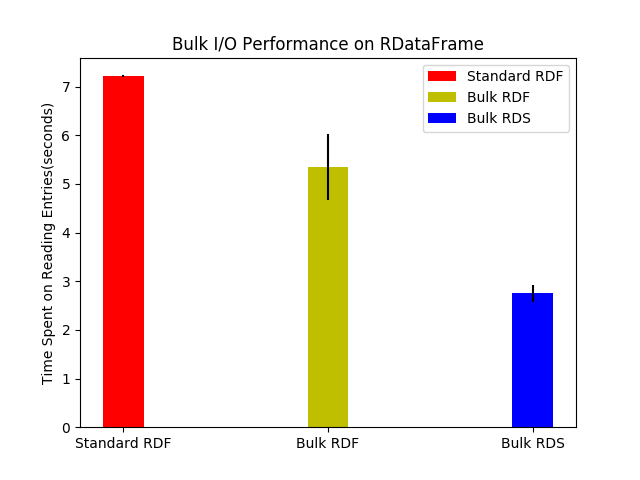
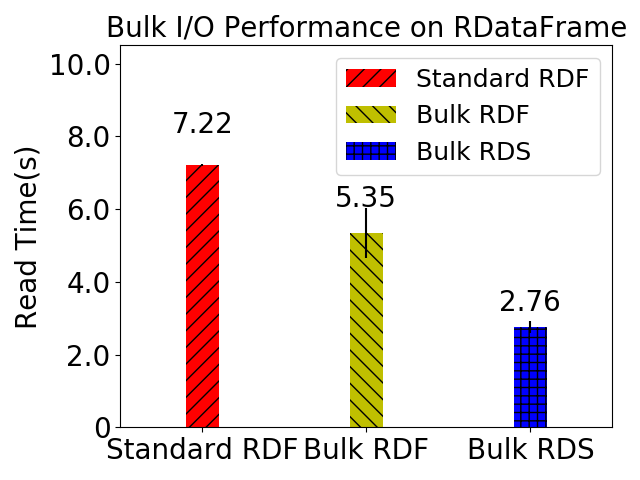
Final version submitted to IOP

diff --git a/latex/interface.tex b/latex/interface.tex
@@ -1,43 +1,48 @@
 \section{Implementation}
 \label{sec:implementation}
 
-We implement an Bulk IO API in three common use cases: \textit{TBranch}, \textit{TTreeReader} and \textit{RDataFrame}. We discuss about our interface design and integration in this section.
+Bulk IO interface is a set of APIs that are built in the existing ROOT IO framework. The user can choose between regular APIs and Bulk IO APIs. We implement Bulk IO in three common use cases: \textit{TBranch}, \textit{TTreeReader} and \textit{RDataFrame}. We discuss about our interface design and integration in this section.
 
 \subsection{Bulk IO in TBranch}
 
-Listing \ref{bulkapi} shows Bulk IO API in TBranch in which two input arguments need to parse into the function: \textit{entry} and \textit{user\_buf}. the entry defines an event index number indicating which event the function is going to read. The \textit{user\_buf} parses an user-space TBuffer structure as a reference into the function. In the end of the function call, the \textit{user\_buf} should contain the whole basket of data that contains the inquiry event.
+Listing \ref{bulkapi} shows Bulk IO API in TBranch in which two input arguments need to be parsed into the function: \textit{entry} and \textit{user\_buf}. the entry defines an event index number indicating which event the function is going to read. The \textit{user\_buf} parses an user-space TBuffer structure as a reference into the function. In the end of the function call, the \textit{user\_buf} should contain the whole basket of data that contains the inquiry event.
 
-\lstset{language=C++,
-                %basicstyle=\ttfamily,
-                keywordstyle=\color{blue}\ttfamily,
-                stringstyle=\color{red}\ttfamily,
-                commentstyle=\color{green}\ttfamily,
-                morecomment=[l][\color{magenta}]{\#},
-                xleftmargin=0.05\textwidth,
-                xrightmargin=0.05\textwidth,
-                basicstyle=\footnotesize\ttfamily,
-                frame=single
+\lstset{
+  basicstyle=\footnotesize\ttfamily, frame=single,
+  xleftmargin=.05\textwidth, xrightmargin=.05\textwidth
 }
-
-\vspace{5pt}
-\begin{lstlisting}[caption={Bulk API in TBranch},captionpos=b,label={bulkapi}]
+\begin{lstlisting}[label={bulkapi}]
 Int_t TBranch::GetBulkEntries(Long64_t entry, TBuffer &user_buf)
 \end{lstlisting}
+\vspace{-10pt}
+\captionof{lstlisting}{Bulk API in TBranch}
+
+%\vspace{5pt}
 
 It is worthwhile to mention that \textit{GetBulkEntries} deserializes events on-the-fly when the data read into the \textit{user\_buf}. Thus no further manipulation is required for user applications. An user can later on access an event in the basket using the code snippet shown in Listing \ref{loop} where \textit{T} is the object type and \textit{idx} is the event index in the \textit{user\_buf}.
-\vspace{5pt}
-\lstset{basicstyle=\ttfamily,xleftmargin=0.1\textwidth,xrightmargin=0.05\textwidth}
-\begin{lstlisting}[caption={Loop over user\_buf.},captionpos=b,label={loop}]
-*reinterpret_cast<T*>(user_buf.GetCurrent())[idx]
+
+\lstset{
+  basicstyle=\ttfamily, frame=single,
+  xleftmargin=.08\textwidth, xrightmargin=.08\textwidth
+}
+\begin{lstlisting}[label={loop}]
+ *reinterpret_cast<T*>(user_buf.GetCurrent())[idx]
 \end{lstlisting}
+\vspace{-10pt}
+\captionof{lstlisting}{Loop over user\_buf}
 
 \subsection{Bulk IO in TTreeReader}
 
-\textit{TTreeReader} is an interface for an user to access simple object (primitives, arrays, etc.) in a ROOT file. \textit{TTreeReaderValue} is the interface to access primitives and \textit{TTreeReaderArray} is the interface to access arrays (each event is either an fixed-size or varialbe-size array). Listing \ref{ttreereader} shows a code sample that uses \textit{TTreeReaderValue} to read events (floats) from a file. \textit{TTreeReader} internally relies on \textit{GetEntry} to access events.
-\vspace{5pt}
-\lstset{xleftmargin=0.15\textwidth,xrightmargin=0.04\textwidth
+\lstset{
+  language=C++,
+  keywordstyle=\color{blue},
+  stringstyle=\color{red},
+  commentstyle=\color{green},
+%  caption=Access to Events using TTreeReader, 
+  basicstyle=\ttfamily, frame=single,
+  xleftmargin=.09\textwidth, xrightmargin=.09\textwidth
 }
-\begin{lstlisting}[caption={Access to Events using TTreeReader.},captionpos=b,label={ttreereader}]
+\begin{lstlisting}[label={ttreereader}]
 TTreeReader myReader("T", hfile);
 TTreeReaderValue<float> myF(myReader, "myFloat");
 Long64_t idx = 0; 
@@ -46,24 +51,46 @@ while (myReader.Next()) {
    sum += *myF;
 }
 \end{lstlisting}
+\vspace{-10pt}
+\captionof{lstlisting}{Access to Events using TTreeReader}
 
-\vspace{5pt}
+%\vspace{5pt}
 
-\lstset{xleftmargin=0\textwidth,xrightmargin=0\textwidth,basicstyle=\footnotesize\ttfamily,breaklines=true}
-\begin{lstlisting}[caption={Bulk API in TTreeReaderFast.},captionpos=b,label={serialized}]
+\textit{TTreeReader} is an interface for an user to access simple object (primitives, arrays, etc.) in a ROOT file. \textit{TTreeReaderValue} is the interface to access primitives and \textit{TTreeReaderArray} is the interface to access arrays (each event is either an fixed-size or varialbe-size array). Listing \ref{ttreereader} shows a code sample that uses \textit{TTreeReaderValue} to read events (floats) from a file. \textit{TTreeReader} internally relies on \textit{GetEntry} to access events.
+
+\lstset{
+%  caption=Bulk API in TTreeReaderFast, 
+  basicstyle=\footnotesize\ttfamily, frame=single,
+  xleftmargin=0\textwidth,
+  xrightmargin=0\textwidth
+}
+\begin{lstlisting}[label={serialized}]
 Int_t TBranch::GetEntriesSerialized(Long64_t entry, TBuffer &user_buf)
 \end{lstlisting}
+\vspace{-10pt}
+\captionof{lstlisting}{Bulk API in TTreeReaderFast}
 
-We design a Bulk API - \textit{GetEntriesSerialized} in TBranch shown in Listing \ref{serialized}. We introduce a new interface - TTreeReaderFast that uses \textit{GetEntriesSerialized} to function as TTreeReader. Unlike \textit{GetBulkEntries}, GetEntriesSerialized does not deserialize events while reading basket into \textit{user\_buf}. Instead, it wait until the user calls \textit{*myF}. Dereference operator invokes the appropriate deserialization code. 
+%\vspace{5pt}
+
+We design a Bulk API - \textit{GetEntriesSerialized} in TBranch shown in Listing \ref{serialized}. We introduce a new interface - TTreeReaderFast that uses \textit{GetEntriesSerialized} to function as TTreeReader. Unlike \textit{GetBulkEntries}, GetEntriesSerialized does not deserialize events while reading basket into \textit{user\_buf}. Instead, it waits until the user calls \textit{*myF}. Dereference operator invokes the appropriate deserialization code. 
 
 \subsection{Bulk IO in RDataFrame}
 
-During  the work, Bulk IO was integrated into RDataFrame \cite{rdataframe} through RDataSource (RDS) which defines an API for RDF to read arbitrary data formats.
-\vspace{5pt}
-\lstset{basicstyle=\ttfamily,xleftmargin=0.1\textwidth,xrightmargin=0.1\textwidth,breaklines=true}
-\begin{lstlisting}[caption={Bulk API in RDataFrame.},captionpos=b,
-label={serializedcount}]
+During our work, Bulk IO is also integrated into RDataFrame \cite{rdataframe} which is a python Pandas \cite{pandas} like data analysis framework for ROOT users. RDataFrame provides a proxy interface - RDataSource (RDS). It allows RDF to read arbitrary data formats such as TTree, CSV, etc..
+
+\lstset{
+%  caption=Bulk API in RDataFrame, 
+  basicstyle=\ttfamily,
+  breaklines=true,
+  xleftmargin=0.1\textwidth,
+  xrightmargin=0.1\textwidth
+}
+\begin{lstlisting}[label={serializedcount}]
 Int_t TBranch::GetEntriesSerialized(Long64_t entry, TBuffer &user_buf, TBuffer *count_buf)
 \end{lstlisting}
+\vspace{-10pt}
+\captionof{lstlisting}{Bulk API in RDataFrame}
 
-We define a new Bulk API \textit{GetEntriesSerialized} shown in Listing \ref{serializedcount}. The only difference from Listing \ref{serialized} is that there is one more argument \textit{count\_buf}. Listing \ref{serialized} actually calls Listing \ref{serializedcount} and set the \textit{count\_buf} as nullptr. \textit{count\_buf} is used to store array length information when events in RDataFrame are arrays.
+%\vspace{5pt}
+
+We define a new Bulk API \textit{GetEntriesSerialized} shown in Listing \ref{serializedcount}. The only difference from Listing \ref{serialized} is that there is one more argument \textit{count\_buf}. Listing \ref{serialized} actually calls Listing \ref{serializedcount} and set the \textit{count\_buf} as nullptr. \textit{count\_buf} is used to store array length information when events in RDataFrame are arrays. Variable-size arrays need such information to deserialize the butter into multiple individual arrays.

diff --git a/latex/motivation.tex b/latex/motivation.tex
@@ -4,21 +4,18 @@
 
 The typical mechanism for iterating through data in a \texttt{TTree} is a handwritten for-loop. ROOT uses a API shown in Listing \ref{getentry} to read objects from a branch (TTree is a structure that contains one or multiple TBranches). This function runs in two steps. First, it searches the underlying storage medium for the basket where the event is located and then read the basket into a memory buffer. The TBasket is the data structure that represents the in-memory buffer. ROOT decompresses the buffer and put the uncompressed buffer in so-called ``kernel" space. In the second step, once the basket appears in memory,  GetEntry deserializes the requested event from the kernel-space buffer and copy it to user-space buffer.
 
-\vspace{5pt}
-\lstset{language=C++,
-                basicstyle=\ttfamily,
-                keywordstyle=\color{blue}\ttfamily,
-                stringstyle=\color{red}\ttfamily,
-                commentstyle=\color{green}\ttfamily,
-                morecomment=[l][\color{magenta}]{\#},
-                xleftmargin=.2\textwidth, xrightmargin=.2\textwidth,
-                frame=single
+\lstset{
+  basicstyle=\ttfamily,
+  frame=single,
+  xleftmargin=.15\textwidth, xrightmargin=.15\textwidth
 }
-\begin{lstlisting}[caption={GetEntry in TBranch.},captionpos=b, label={getentry}]
-TBranch::GetEntry(Long64_t entry)
+\begin{lstlisting}[label={getentry}]
+  Int_t TBranch::GetEntry(Long64_t entry)
 \end{lstlisting}
+\vspace{-10pt}
+\captionof{lstlisting}{GetEntry in TBranch}
 
-When user application is computationally expensive, the cost of library calls, frequently deserializing objects and copying data between memory buffers are amortized to effectively noting. Accordingly, we introduce a new interface for ROOT to copy all events in an on-disk \texttt{TBasket} directly to a user-provided memory buffer. For the simplest of cases - primitives and C-style arrays of primitives - where the serialization can be done without a separate buffer or ``fixing up" pointer contents, the user can request the serialized data be delivered to the buffer or deserialized data.  By requesting the serialized data directly and deserializing directly in the event loop, the user can avoid an expensive scan from main memory.
+When user application is computationally expensive, the cost of library calls, frequently deserializing objects and copying data between memory buffers are amortized to effectively nothing. To overcome such overheads, we introduce a new interface for ROOT to copy all events in an on-disk \texttt{TBasket} directly to a user-provided memory buffer. For the simplest cases - primitives and C-style arrays of primitives, the serialization can be done without a separate buffer or ``fixing up" pointer contents. The user can request the serialized data or deserialized data to be delivered to the user buffer. By requesting the serialized data directly and deserializing directly in the event loop, the user can avoid an expensive scan from main memory.
 
 Pragmatically, the user will not implement code for deserializing data themselves: rather, we have provided a header-only C++ facade around the data, allowing the user to work with a proxy object.  This allows the compiler to inline the deserialization code in the correct place.
 

diff --git a/latex/evaluation.tex b/latex/evaluation.tex
@@ -3,7 +3,7 @@
 
 \subsection{Experiments}
 
-For tests was used a desktop Intel i5 4-Core @ 3.2GHz, while reading from a TTree with 100 million float values. We test three different use cases: GetBulkEntries, TTreeReaderFast and RDataSource.
+All tests are conducted on a desktop Intel i5 4-Core @ 3.2GHz. A TTree with 100 million float values is read with different APIs. We tested three different use cases: GetBulkEntries, TTreeReaderFast and RDataSource.
 
 \subsection{Results}
 
@@ -11,7 +11,7 @@ Figure \ref{fig:tbranch} shows the time spent on iterating all events in the \te
 
 \begin{figure}[!ht]
 \centering
-\includegraphics[height=4in, width=5in]{getbulkentries.png}
+\includegraphics[height=2.5in, width=3.5in]{getbulkentries.png}
 \vspace*{-2mm}
 \caption{Performance between \textit{GetEntry} and \textit{GetBulkEntries}.}
 \label{fig:tbranch}
@@ -19,18 +19,18 @@ Figure \ref{fig:tbranch} shows the time spent on iterating all events in the \te
 
 \begin{figure}[!ht]
 \centering
-\includegraphics[height=4in, width=5in]{ttreereader.png}
+\includegraphics[height=2.5in, width=3.5in]{ttreereader.png}
 \vspace*{-2mm}
-\caption{Performance comparison between \textit{TTreeReader} and \textit{TTreeReaderFast}.}
+\caption{Performance between \textit{TTreeReader} and \textit{TTreeReaderFast}.}
 \label{fig:ttreereader}
 \end{figure}
 
 \begin{figure}[!ht]
 \centering
-\includegraphics[height=4in, width=5in]{dataframe.png}
+\includegraphics[height=2.5in, width=3.5in]{dataframe.png}
 \vspace*{-2mm}
 \caption{Performance improvements on RDataFrame with Bulk IO.}
 \label{fig:rdataframe}
 \end{figure}
 
-Figure \ref{fig:rdataframe} shows the results of Bulk IO in RDataFrame. In this Figure \ref{fig:rdataframe}, standard RDF is the RDataFrame with normal ROOT IO library functions, while Bulk RDF is the results of reading events by RDataFrame and Bulk IO and Bulk RDS is the results that directly use RDataSource and Bulk IO. Bulk RDS outperforms standard RDF by more than 2 times. Since RDataFrame has extra overheads comparing to RDataSource (RDataFrame internally relies RDataSource), Bulk RDF runs slower than Bulk RDS, but still outperforms standard RDF.
+Figure \ref{fig:rdataframe} shows the results of Bulk IO in RDataFrame. In the figure, the standard RDF shows the performance by using regular RDataFrame function calls. Bulk RDF and Bulk RDS show the result of Bulk APIs. The difference is that, Bulk RDS test detaches RDataSource from RDataFrame stack and run the test directly through RDS function calls. As shown in Figure \ref{fig:rdataframe}, Bulk RDS outperforms standard RDF by more than 2 times. In addition, RDataFrame has extra overheads compared to RDataSource (RDataFrame internally relies RDataSource), therefore Bulk RDF runs slower than Bulk RDS, but still outperforms standard RDF.

diff --git a/main.tex b/main.tex
@@ -3,30 +3,20 @@
 %Uncomment next line if AMS fonts required
 %\usepackage{iopams}
 \usepackage{listings}
-\usepackage{minted}
-\usepackage{subfig}
 \usepackage{hyperref}
 \usepackage{graphicx}
-% \usepackage{subcaption}
 \usepackage[utf8]{inputenc}
 \usepackage{tikz}
 \usepackage[labelfont=bf]{caption}
-
-%\newminted{cpp}{gobble=2, numbersep=3pt, escapeinside=||, xleftmargin=5mm, framesep=2mm, frame=leftline, baselinestretch=1, fontsize=\scriptsize, linenos=true}
-%\newmintinline{cpp}{}
-
-%\makeatletter
-%\AtBeginEnvironment{minted}{\dontdofcolorbox}
-%\def\dontdofcolorbox{\renewcommand\fcolorbox[4][]{##4}}
-%\makeatother
 
 \begin{document}
 
 \title{Speeding HEP Analysis with ROOT Bulk I/O}
 
-\author{Brian Paul Bockelman  [2], Zhe Zhang [1],  Oksana Shadura [1]}
-\address{[1] University of Nebraska-Lincoln, USA [2] Morgridge Institute for Research, USA}
-\ead{zhan0915@huskers.unl.edu, bbockelman@morgridge.org,  oksana.shadura@cern.ch}
+\author{B Bockelman$^1$, Z Zhang$^2$ and O Shadura$^2$}
+\address{$^1$ Morgridge Institute for Research, Madison, WI 53715, USA}
+\address{$^2$ Holland Computer Center, University Nebraska $-$ Lincoln, Lincoln, NE 68588, USA}
+\ead{bbockelman@morgridge.org}
 \vspace{10pt}
 
 \begin{abstract}
@@ -51,16 +41,16 @@ by the Holland Computing Center of the University of Nebraska.
 
 \begin{thebibliography}{10}
 
+%\bibitem{root}
+%Brun R and Rademakers F, \textit{ROOT - An Object Oriented Data Analysis Framework}, Nucl. Inst. \& Meth. in Phys. Res. A  \textbf{389} (Proceedings AIHENP'96 Workshop,1997).
 \bibitem{root}
-R. Brun, F. Rademakers, \textit{ROOT - An Object Oriented Data Analysis Framework}, Nucl. Inst. \& Meth. in Phys. Res. A  \textbf{389} (Proceedings AIHENP'96 Workshop,1997).
-
+Brun R and Rademakers F ``ROOT - An object oriented data analysis framework", \textit{Nucl. Instr. Meth. Phys. Res.} \textbf{389} (1997) 81-86
 \bibitem{rdataframe}
-Enrico Guiraud, Axel Naumann, and Danilo Piparo. RDataFrame: functional chains for ROOT data analyses. Jan. 2017. doi: 10.5281/zenodo.260230. url: https://doi.org/10.5281/zenodo.260230.
-
+Guiraud E, Naumann A and Piparo D ``RDataFrame: functional chains for ROOT data analyses", (2017) doi: 10.5281/zenodo.260230. url: https://doi.org/10.5281/zenodo.260230.
 \bibitem{bulk-io}
-B Bockelman, Z Zhang and J Pivarski. Optimizing ROOT IO For Analysis, Journal of Physics: Conference Series, Volume 1085, pages 032012, IOP publishing
-
+Bockelman B, Zhang z and Pivarski J ``Optimizing ROOT IO For Analysis", \textit{J. Phys.: Conf. Ser.}, \textbf{1085} (2018) 032012
+\bibitem{pandas}
+Mckinney W ``pandas: a Foundational Python Library for Data Analysis and Statistics", \textit{PyHPC 2011 : Python for High Performance and Scientific Computing}, (2011)
 \end{thebibliography}
-
 \end{document}
 
